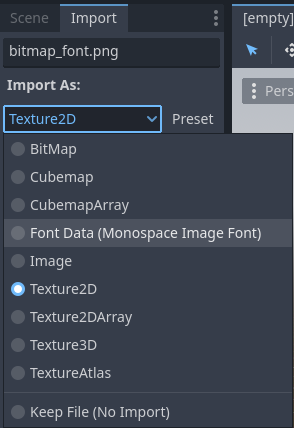
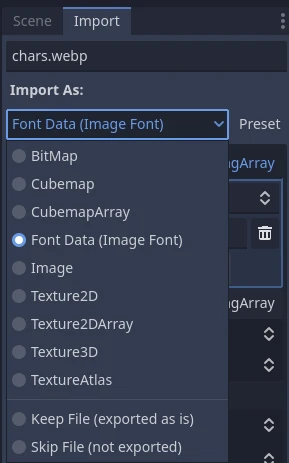
Update the 'Using Fonts' page to include information on spacing adjustments and kerning pairs for image fonts (#10880)
* Update the 'Using Fonts' page to include information on spacing adjustments and kerning pairs for image fonts

Closes https://github.com/godotengine/godot-docs/issues/10855

Non-monospaced image fonts have been supported for quite some time, but the documentation has not yet been updated to reflect this.

There are now some additional screenshots and examples of how to use the extra parameters in the Character Ranges, and how to use the Kerning Pairs list.

diff --git a/tutorials/ui/gui_using_fonts.rst b/tutorials/ui/gui_using_fonts.rst
@@ -68,17 +68,16 @@ Godot supports the BMFont (``.fnt``) bitmap font format. This is a format create
 by the `BMFont <https://www.angelcode.com/products/bmfont/>`__ program. Many
 BMFont-compatible programs also exist, like `BMGlyph <https://www.bmglyph.com/>`__ or web-based `fontcutter <https://github.com/fabienbk/fontcutter>`__.
 
-Alternatively, you can import any image to be used as a bitmap font. This is
-only supported for **monospaced** fonts (fonts where each character has the same
-width). To do so, select the image in the FileSystem dock, go to the
-Import dock, change its import type to **Font Data (Monospace Image Font)** then
+Alternatively, you can import any image to be used as a bitmap font.
+To do so, select the image in the FileSystem dock, go to the
+Import dock, change its import type to **Font Data (Image Font)** then
 click **Reimport**:
 
 .. figure:: img/using_fonts_bitmap_font_from_image_import_options.webp
    :align: center
-   :alt: Changing import type to Font Data (Monospace Image Font)
+   :alt: Changing import type to Font Data (Image Font)
 
-   Changing import type to **Font Data (Monospace Image Font)**
+   Changing import type to **Font Data (Image Font)**
 
 The font's character set layout can be in any order, but orders that match
 standard Unicode are recommended as they'll require far less configuration to
@@ -121,6 +120,33 @@ applied only once around the whole image.
 If your font image contains guides (in the form of lines between glyphs) or
 if spacing between characters appears incorrect, try adjusting **Character
 Margin**. This margin is applied for every imported glyph.
+
+If you need finer control over character spacing than
+what the **Character Margin** options provide, you have more options.
+
+For one, **Character Ranges** supports 3 additional arguments after the
+specified range of characters.
+These additional arguments control their positioning and spacing.
+They represent space advance, X axis offset, and Y axis offset in that order.
+They will change the space advance and offset of each character
+by the amount of pixels written. Space advance is most useful if, for example,
+your lowercase letters are thinner than your uppercase letters.
+
+.. figure:: img/using_fonts_bitmap_font_advance_offsets_diagram.webp
+   :align: center
+   :alt: Diagram showing the advance and offset values being used in character ranges.
+
+   Do note that the offsets can cause your text to be cropped off the edge of your label boundaries.
+
+Secondly, you can also set up **Kerning Pairs** for individual characters.
+Specify your kerning pair by typing two sets of characters separated by a space,
+then followed by another space, a number to specify how many extra/less pixels to
+space those two sets of characters when placed next to each other.
+
+.. figure:: img/using_fonts_bitmap_kerning_pairs_example.webp
+
+If needed, your kerning pair characters can be specified by Unicode character code
+by entering ``\uXXXX`` where XXXX is the hexadecimal value of the Unicode character.
 
 Loading a font file
 -------------------
